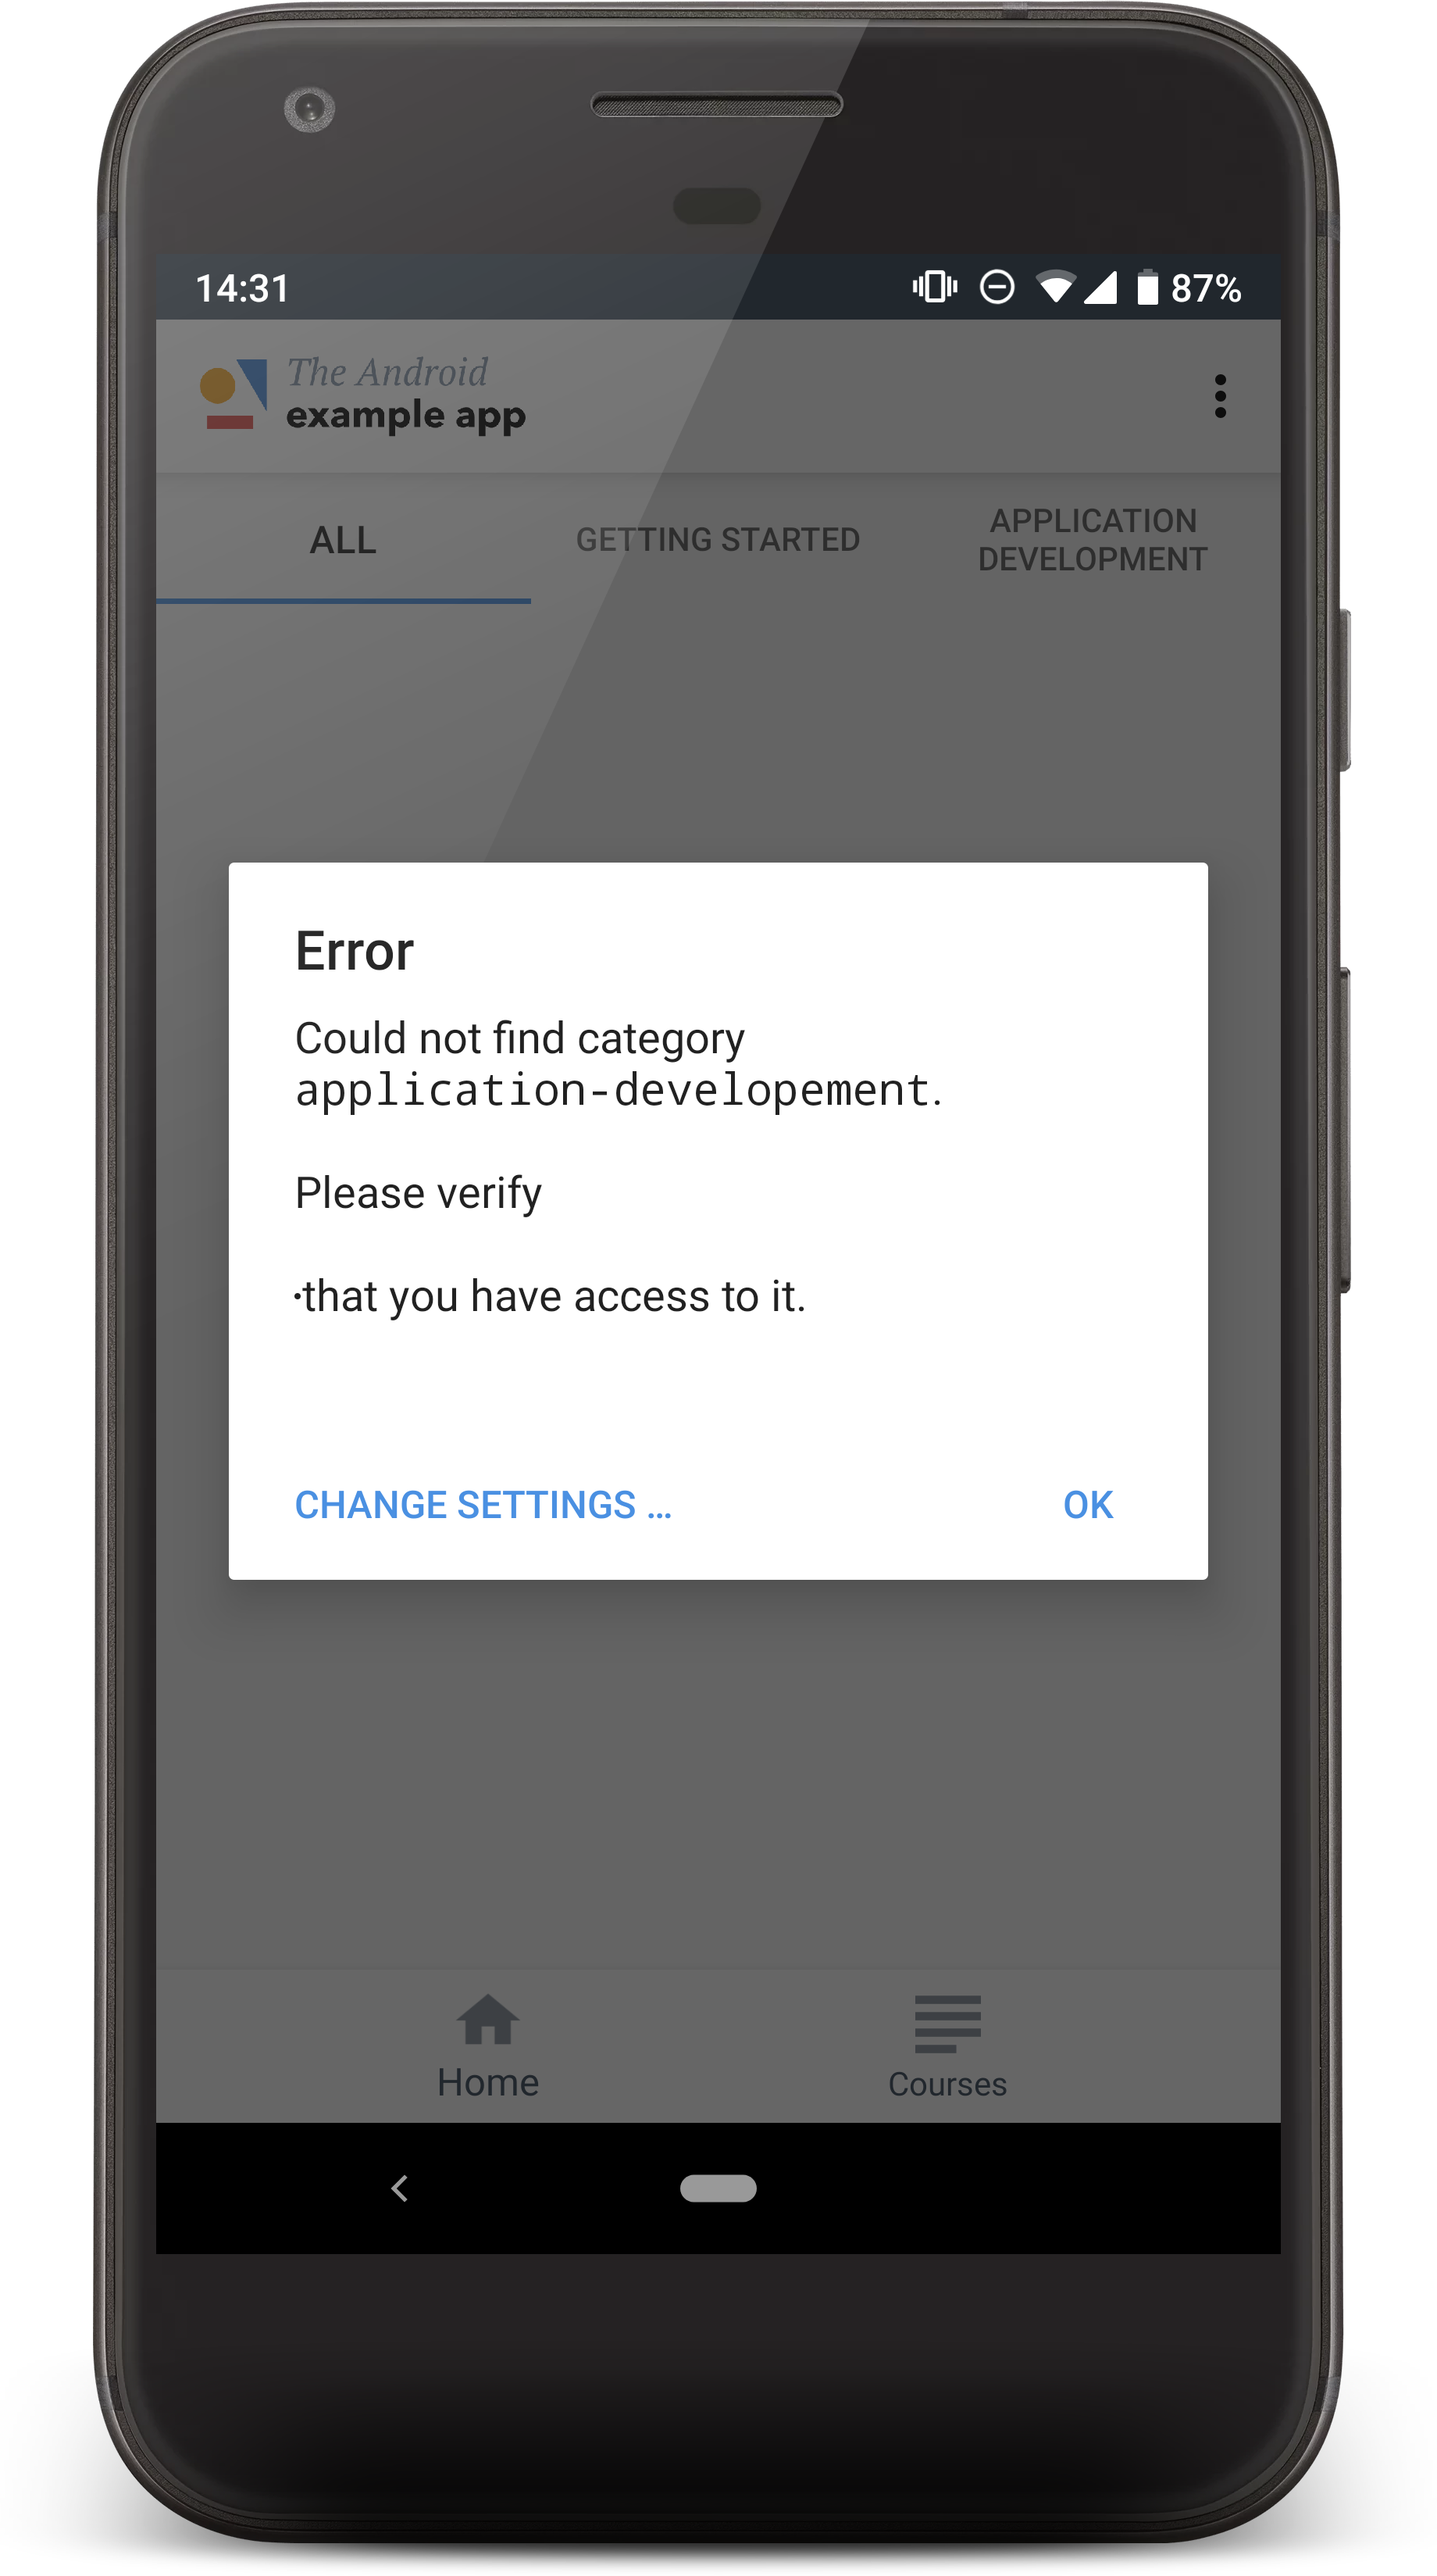
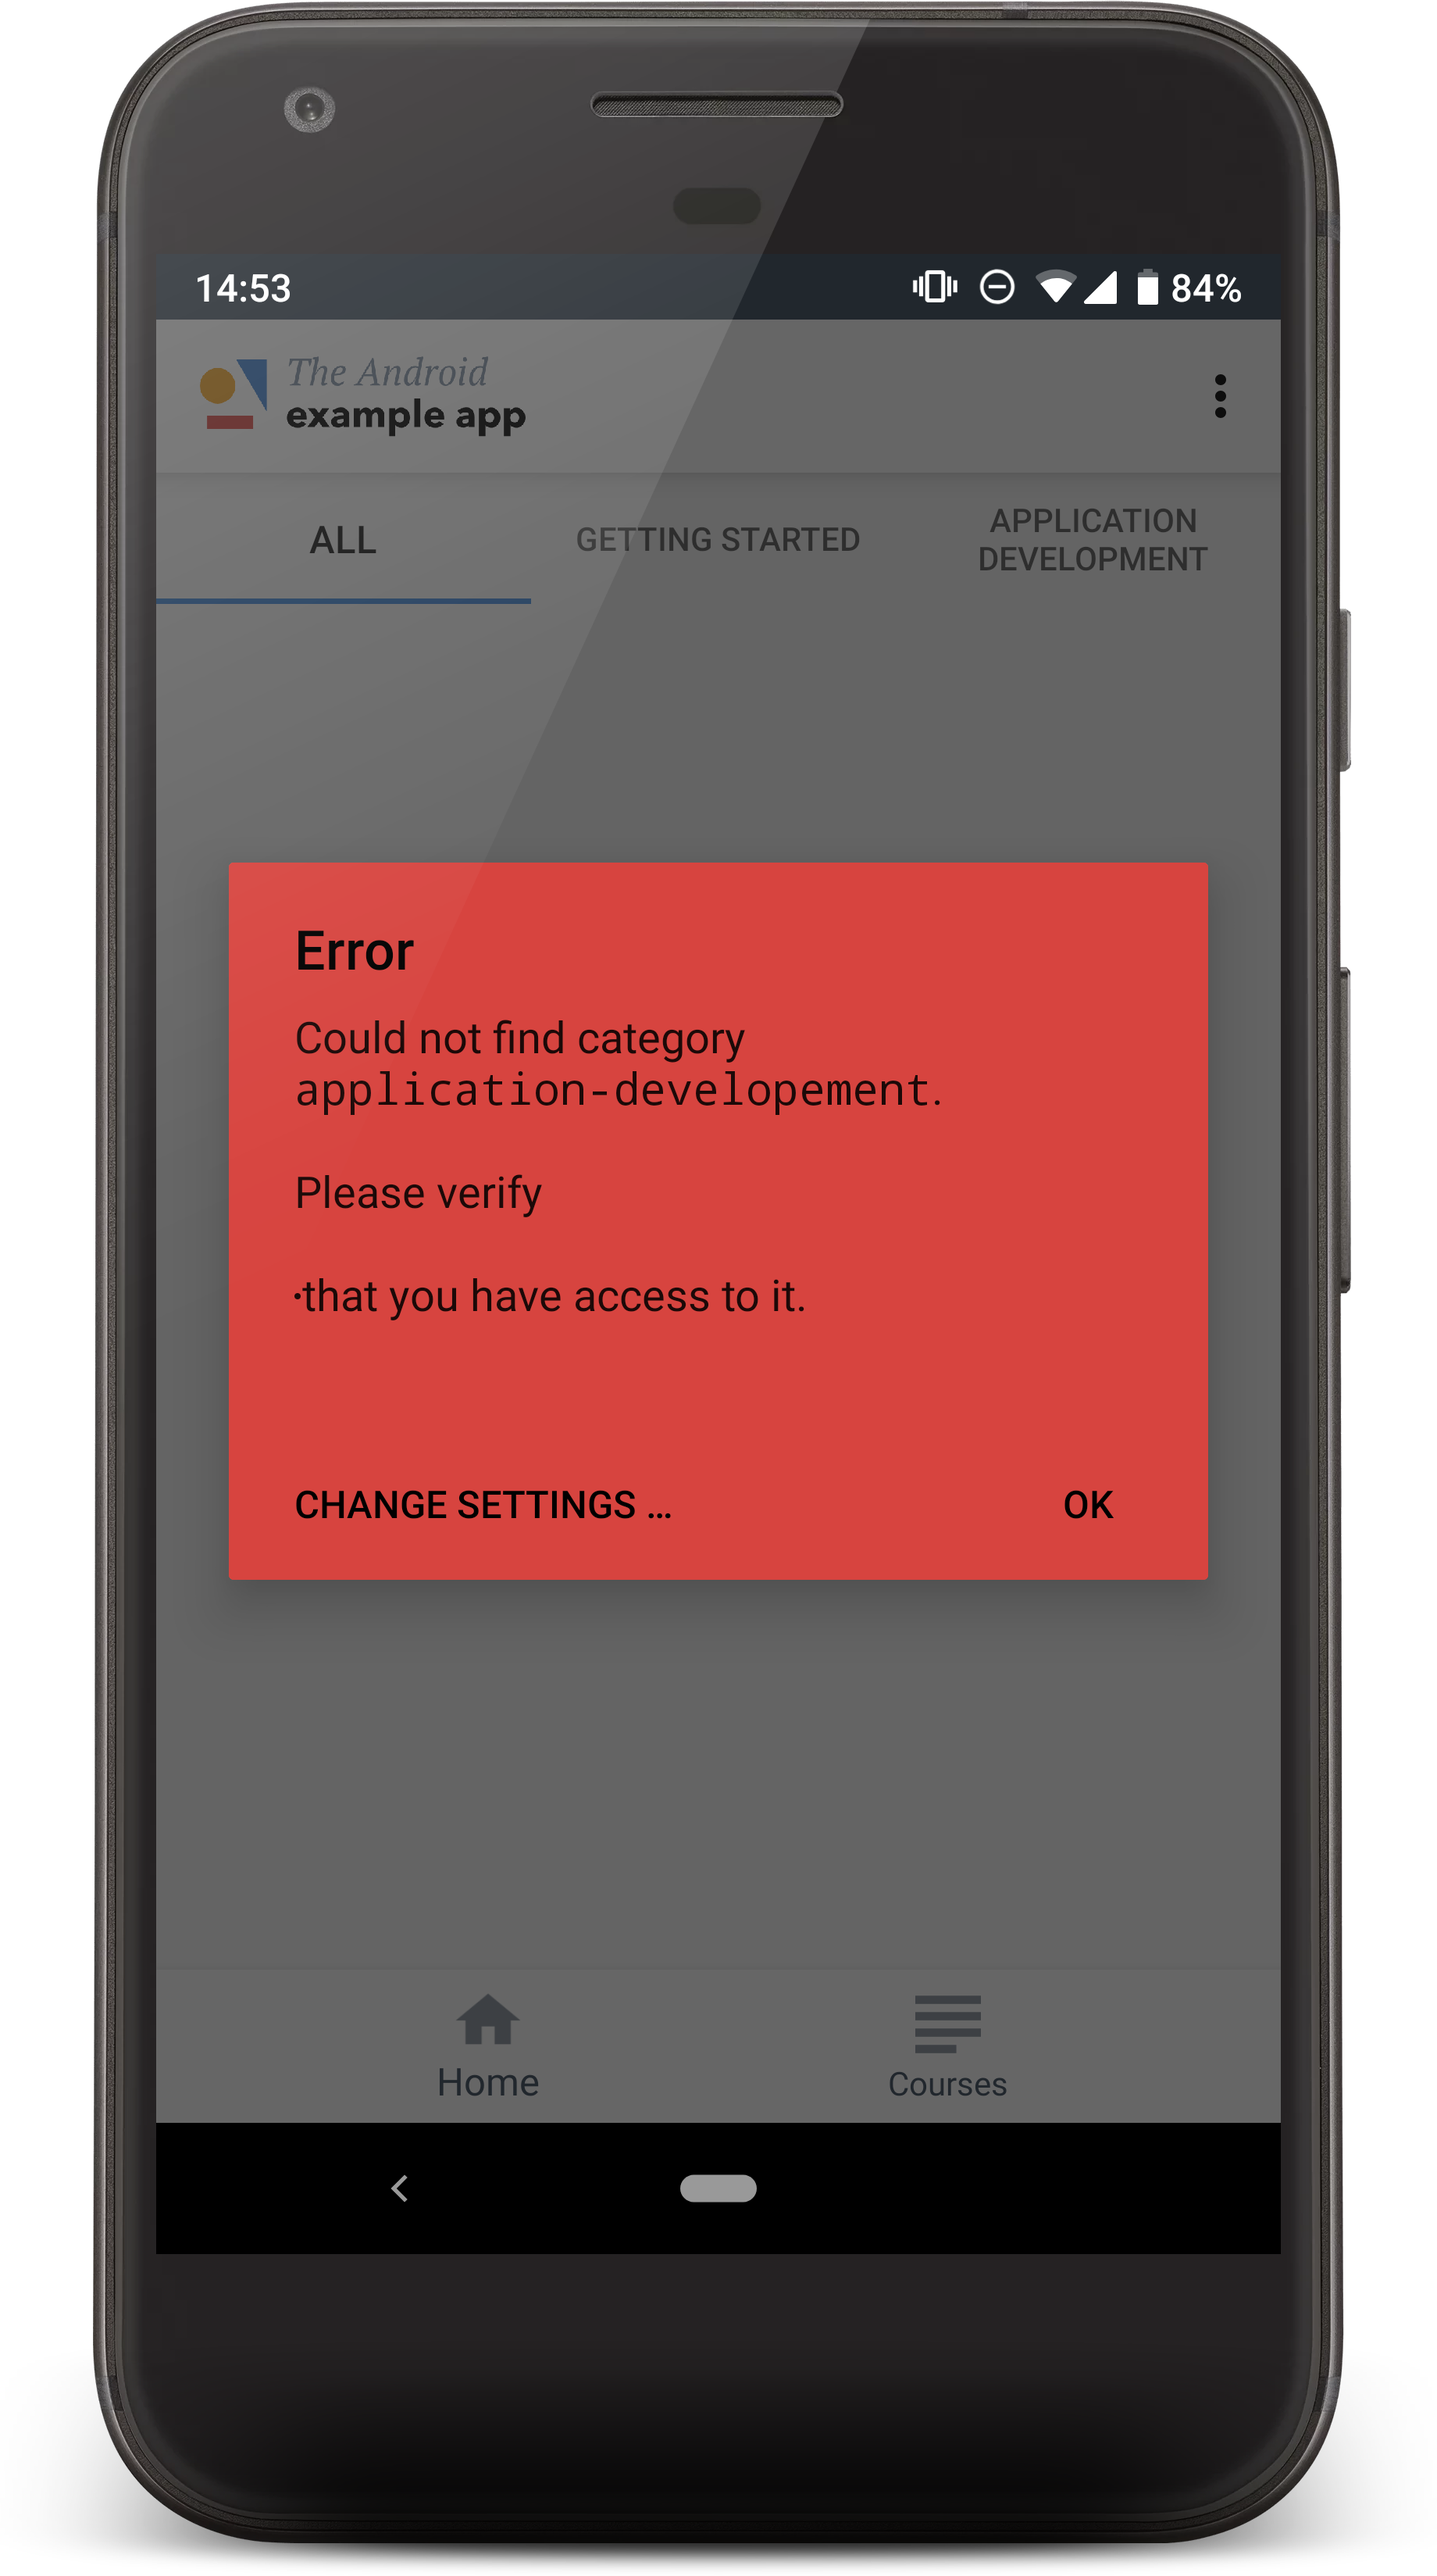
style error dialog

Changed region(s): [[0.1549, 0.3124, 0.8674, 0.6248]]

diff --git a/app/src/main/kotlin/com/contentful/tea/kotlin/extensions/ActivityExtensions.kt b/app/src/main/kotlin/com/contentful/tea/kotlin/extensions/ActivityExtensions.kt
@@ -9,6 +9,7 @@ import android.text.Html
 import android.util.Log
 import android.widget.Toast
 import androidx.appcompat.app.AlertDialog
+import com.contentful.tea.kotlin.R
 
 fun Activity.showError(
     message: CharSequence,
@@ -21,7 +22,7 @@ fun Activity.showError(
 ) {
     runOnUiThread {
         AlertDialog
-            .Builder(this)
+            .Builder(this, R.style.TeaErrorDialog)
             .apply {
                 setTitle(title)
                 if (error != null) {
@@ -61,20 +62,6 @@ fun Activity.showError(
         }
     }
 }
-
-fun Activity.showInformation(
-    message: CharSequence,
-    title: CharSequence = "Information",
-    moreHandler: Function0<Unit>? = null,
-    moreTitle: CharSequence = "More …",
-    cancelHandler: Function0<Unit>? = null,
-    okHandler: Function0<Unit> = {}
-) {
-    showError(message, title, moreTitle, null, moreHandler, cancelHandler, okHandler)
-}
-
-val Throwable.stackTraceText: CharSequence
-    get() = this.stackTrace.reversed().joinToString("<br/>")
 
 fun Context.saveToClipboard(label: CharSequence, content: CharSequence) {
     val clipboard = getSystemService(Context.CLIPBOARD_SERVICE) as ClipboardManager
